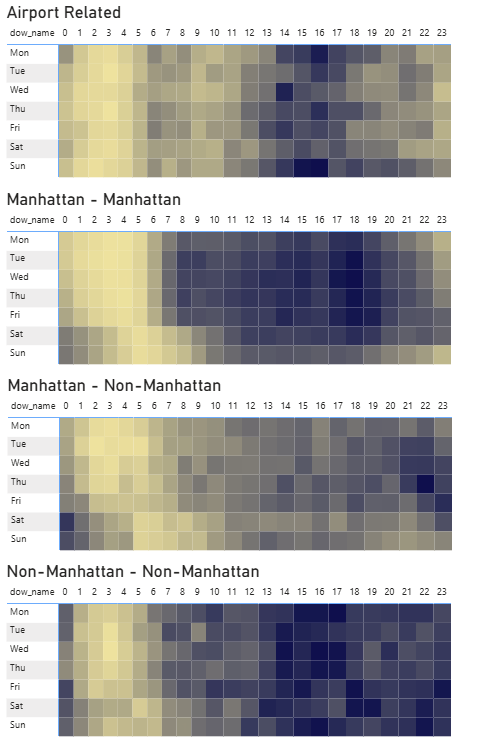
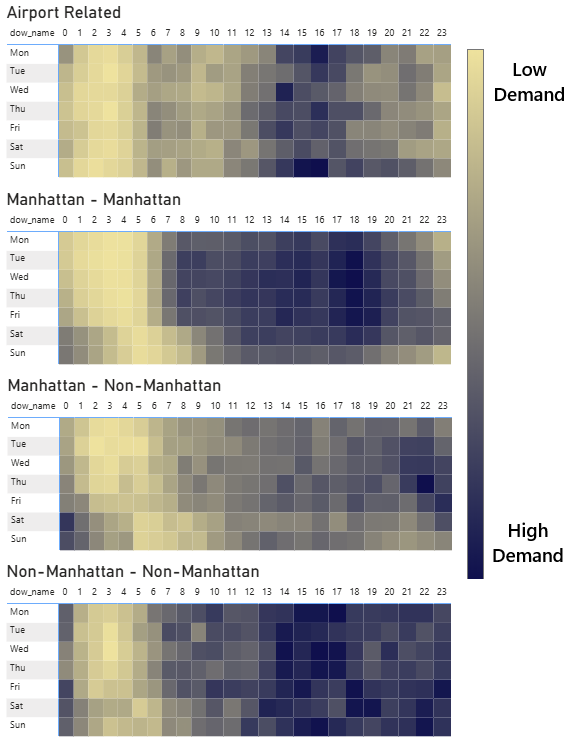
Fix last details for presentation

diff --git a/README.md b/README.md
@@ -16,12 +16,12 @@ This repository contains an exploratory analysis of TLC NYC Yellow Taxi trip rec
 - **Yellow-Taxi-Analysis.html**  
   HTML export of the notebook. This version is recommended if images do not render correctly in the Jupyter Notebook.
 
-- **Executive Summary - One Pager.docx**  
+- **Insights Presentation.pdf**  
+  Deck of slides that show visually the main findings of the analysis, intended for a presentation with any potential stakeholder.
+
+- **Executive Summary - One Pager.pdf**  
   Standalone Word document containing the executive summary only, intended for stakeholders who do not require the full analytical walkthrough.
 
-## Scope of the Analysis
-
-The analysis covers TLC NYC Yellow Taxi trip records from 2018 to January 2023 and combines them with the Taxi Zone Lookup file to enrich location-based analysis. The work focuses on identifying trip patterns, segment differences, demand and revenue evolution, and data quality issues that may affect KPI interpretation.
 
 ## Notes
 